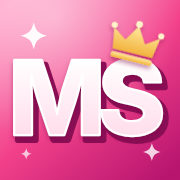
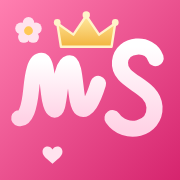
Ícone: M e S manuscritos com coroa e flor
Claude-Session: https://claude.ai/code/session_01Jf1jNJdkTk3N6YZyyR6Hu3

diff --git a/index.html b/index.html
@@ -9,7 +9,7 @@
 <link rel="icon" type="image/png" href="icon-192.png">
 <link rel="apple-touch-icon" href="apple-touch-icon.png">
 <style>:root{color-scheme:light}html,body{margin:0}body{font-family:system-ui,sans-serif}[hidden]{display:none!important}img{max-width:100%}</style>
-<script>window.MM_VER="1794254762";</script>
+<script>window.MM_VER="1794254817";</script>
 <script src="supabase.js"></script>
 <script>window.sb=supabase.createClient("https://tobdkptlewiwemafphyf.supabase.co","eyJhbGciOiJIUzI1NiIsInR5cCI6IkpXVCJ9.eyJpc3MiOiJzdXBhYmFzZSIsInJlZiI6InRvYmRrcHRsZXdpd2VtYWZwaHlmIiwicm9sZSI6ImFub24iLCJpYXQiOjE3OTQxNDc1NTYsImV4cCI6MjEwOTcyMzU1Nn0.du1wM-BLPDdWwL1jofBVwTh7lJbzHz2nEXdf1Gl1BJo",{auth:{persistSession:true,autoRefreshToken:true,detectSessionInUrl:true}});</script>
 </head><body>
@@ -452,7 +452,7 @@ nav button.fab[aria-current="page"],:root:not([data-tema=suave]) nav button.fab[
 
 <div class="app">
   <header>
-    <div class="brand"><svg class="logo" viewBox="0 0 48 48" aria-hidden="true"><defs><linearGradient id="bH" x1=".1" y1="0" x2=".9" y2="1"><stop offset="0" stop-color="#FF9CC4"/><stop offset=".5" stop-color="#F2418A"/><stop offset="1" stop-color="#B8156F"/></linearGradient><linearGradient id="wH" x1="0" y1="0" x2="0" y2="1"><stop offset="0" stop-color="#fff"/><stop offset="1" stop-color="#FFDDEB"/></linearGradient><linearGradient id="gH" x1="0" y1="0" x2="0" y2="1"><stop offset="0" stop-color="#FFE9A0"/><stop offset="1" stop-color="#F2B33D"/></linearGradient><radialGradient id="hH" cx=".3" cy=".1" r=".7"><stop offset="0" stop-color="#fff" stop-opacity=".45"/><stop offset="1" stop-color="#fff" stop-opacity="0"/></radialGradient><filter id="sH" x="-20%" y="-20%" width="140%" height="150%"><feDropShadow dx="0" dy=".9" stdDeviation=".7" flood-color="#7A0B45" flood-opacity=".45"/></filter></defs><rect width="48" height="48" rx="15" fill="url(#bH)"/><rect width="48" height="48" rx="15" fill="url(#hH)"/><g transform="translate(1 1.3)"><path fill="#8A0F55" stroke="#8A0F55" stroke-width="1.6" stroke-linejoin="round" d="M3.78 36H8.53V27.38C8.53 25.89 8.41 22.75 8.35 20.11C9.04 22.93 9.86 25.9 10.33 27.38L13.22 36H17.18L20.02 27.38C20.51 25.85 21.35 22.75 22.01 19.89C21.96 22.59 21.84 25.86 21.84 27.38V36H26.6V15.99H19.2L16.69 23.78C16.29 25.15 15.67 28.02 15.22 30.41C14.75 28.02 14.13 25.15 13.71 23.78L11.16 15.99H3.78Z"/><path fill="#8A0F55" stroke="#8A0F55" stroke-width="1.6" stroke-linejoin="round" d="M35.31 36.27C40.27 36.27 43.22 34 43.22 30.2C43.22 27 40.98 25.07 37.11 24.22L35.38 23.82C33.6 23.42 32.43 22.83 32.43 21.59C32.43 20.48 33.41 19.66 35.3 19.66C37.21 19.66 38.27 20.5 38.4 21.95H42.96C42.9 18.25 39.95 15.72 35.31 15.72C30.78 15.72 27.53 18.21 27.53 21.91C27.53 24.92 29.62 26.65 33.07 27.45L35.19 27.94C37.38 28.44 38.43 29.04 38.43 30.19C38.43 31.46 37.22 32.33 35.26 32.33C33.1 32.33 31.66 31.34 31.56 29.39H27C27.08 34.01 30.31 36.27 35.31 36.27Z"/></g><g filter="url(#sH)"><path fill="url(#wH)" stroke="#fff" stroke-width=".6" stroke-linejoin="round" d="M3.78 36H8.53V27.38C8.53 25.89 8.41 22.75 8.35 20.11C9.04 22.93 9.86 25.9 10.33 27.38L13.22 36H17.18L20.02 27.38C20.51 25.85 21.35 22.75 22.01 19.89C21.96 22.59 21.84 25.86 21.84 27.38V36H26.6V15.99H19.2L16.69 23.78C16.29 25.15 15.67 28.02 15.22 30.41C14.75 28.02 14.13 25.15 13.71 23.78L11.16 15.99H3.78Z"/><path fill="url(#wH)" stroke="#fff" stroke-width=".6" stroke-linejoin="round" d="M35.31 36.27C40.27 36.27 43.22 34 43.22 30.2C43.22 27 40.98 25.07 37.11 24.22L35.38 23.82C33.6 23.42 32.43 22.83 32.43 21.59C32.43 20.48 33.41 19.66 35.3 19.66C37.21 19.66 38.27 20.5 38.4 21.95H42.96C42.9 18.25 39.95 15.72 35.31 15.72C30.78 15.72 27.53 18.21 27.53 21.91C27.53 24.92 29.62 26.65 33.07 27.45L35.19 27.94C37.38 28.44 38.43 29.04 38.43 30.19C38.43 31.46 37.22 32.33 35.26 32.33C33.1 32.33 31.66 31.34 31.56 29.39H27C27.08 34.01 30.31 36.27 35.31 36.27Z"/></g><g transform="translate(36 11.4) rotate(14) scale(.9)" filter="url(#sH)"><path fill="url(#gH)" d="M-6 3.2 L-7 -3 L-3 -.2 L0 -5 L3 -.2 L7 -3 L6 3.2 Z"/><rect x="-6.2" y="4" width="12.4" height="1.6" rx=".6" fill="url(#gH)"/><circle cx="0" cy="-5.6" r="1" fill="#FFF3C9"/><circle cx="-7.1" cy="-3.7" r=".9" fill="#FFF3C9"/><circle cx="7.1" cy="-3.7" r=".9" fill="#FFF3C9"/></g><path transform="translate(9 9.5) scale(1.2)" fill="#fff" opacity="0.95" d="M0 -3 C.5 -1 1 -.5 3 0 C1 .5 .5 1 0 3 C-.5 1 -1 .5 -3 0 C-1 -.5 -.5 -1 0 -3Z"/><path transform="translate(40.5 40.5) scale(0.8)" fill="#fff" opacity="0.8" d="M0 -3 C.5 -1 1 -.5 3 0 C1 .5 .5 1 0 3 C-.5 1 -1 .5 -3 0 C-1 -.5 -.5 -1 0 -3Z"/><path transform="translate(7 41) scale(0.5)" fill="#fff" opacity="0.7" d="M0 -3 C.5 -1 1 -.5 3 0 C1 .5 .5 1 0 3 C-.5 1 -1 .5 -3 0 C-1 -.5 -.5 -1 0 -3Z"/></svg><span class="wm">Mavie Skin</span></div>
+    <div class="brand"><svg class="logo" viewBox="0 0 48 48" aria-hidden="true"><defs><linearGradient id="lgmH" x1="0" y1="0" x2="1" y2="1"><stop offset="0" stop-color="#FF7FB0"/><stop offset="1" stop-color="#D6246E"/></linearGradient><linearGradient id="lgwH" x1="0" y1="0" x2="0" y2="1"><stop offset="0" stop-color="#fff"/><stop offset="1" stop-color="#FFD3E6"/></linearGradient><linearGradient id="cgH" x1="0" y1="0" x2="0" y2="1"><stop offset="0" stop-color="#FFE9A0"/><stop offset="1" stop-color="#F2B33D"/></linearGradient></defs><rect width="48" height="48" rx="15" fill="url(#lgmH)"/><g fill="none" stroke="url(#lgwH)" stroke-linecap="round" stroke-linejoin="round"><path transform="translate(0 7.7) scale(.68)" stroke-width="6.2" d="M7.5 35 C10 35.5 11.5 31 12.2 24 C12.8 17.5 13.8 12.5 16.2 12.5 C19.2 12.5 18.2 29 21 31.5 C23.8 34 22.8 14.5 27 13.5 C30 12.8 29.2 29.5 31.8 31.2 C34 32.6 36.5 28 38.5 21.5"/><path stroke-width="4.3" d="M41.5 15.5 C40 11 32.5 11.5 32 16.5 C31.5 22 40.8 22.5 41.2 28.5 C41.5 34.5 33.5 36.5 30 31.5"/></g><g transform="translate(23 9.6) scale(.9)"><path d="M-7.5 3.2 L-8.6 -3.8 L-3.8 -0.4 L0 -6 L3.8 -0.4 L8.6 -3.8 L7.5 3.2 Z" fill="url(#cgH)" stroke="#FFF3C9" stroke-width=".7" stroke-linejoin="round"/><circle cx="0" cy="-6.2" r="1.1" fill="#FFF3C9"/><circle cx="-8.6" cy="-4" r="1" fill="#FFF3C9"/><circle cx="8.6" cy="-4" r="1" fill="#FFF3C9"/></g><g transform="translate(7.6 8.2) scale(.62)"><g fill="#FFE3EE"><circle cx="0" cy="-3.4" r="2.5"/><circle cx="3.2" cy="-1" r="2.5"/><circle cx="2" cy="2.7" r="2.5"/><circle cx="-2" cy="2.7" r="2.5"/><circle cx="-3.2" cy="-1" r="2.5"/></g><circle r="1.9" fill="#FFC857"/></g><path transform="translate(14 41) scale(.7)" fill="#FFE3EE" d="M0 -1.6c-.9-1.9-3.8-1.4-3.8.8 0 1.7 2.1 3 3.8 4.6 1.7-1.6 3.8-2.9 3.8-4.6 0-2.2-2.9-2.7-3.8-.8z"/></svg><span class="wm">Mavie Skin</span></div>
     <div class="tag" id="tag"></div>
   </header>
   <div id="ages" hidden></div>
@@ -515,7 +515,7 @@ const IC={
 };
 const ic=(n,s=20)=>`<svg class="ic" width="${s}" height="${s}" viewBox="0 0 24 24" aria-hidden="true">${IC[n]}</svg>`;
 const ICONS={hoje:ic('home',22),pele:ic('face',22),rotina:ic('routine',22),produtos:ic('bottle',22),escanear:ic('scan',22),mais:ic('more',22)};
-const LOGO=`<svg class="logo" viewBox="0 0 48 48" aria-hidden="true"><defs><linearGradient id="bL" x1=".1" y1="0" x2=".9" y2="1"><stop offset="0" stop-color="#FF9CC4"/><stop offset=".5" stop-color="#F2418A"/><stop offset="1" stop-color="#B8156F"/></linearGradient><linearGradient id="wL" x1="0" y1="0" x2="0" y2="1"><stop offset="0" stop-color="#fff"/><stop offset="1" stop-color="#FFDDEB"/></linearGradient><linearGradient id="gL" x1="0" y1="0" x2="0" y2="1"><stop offset="0" stop-color="#FFE9A0"/><stop offset="1" stop-color="#F2B33D"/></linearGradient><radialGradient id="hL" cx=".3" cy=".1" r=".7"><stop offset="0" stop-color="#fff" stop-opacity=".45"/><stop offset="1" stop-color="#fff" stop-opacity="0"/></radialGradient><filter id="sL" x="-20%" y="-20%" width="140%" height="150%"><feDropShadow dx="0" dy=".9" stdDeviation=".7" flood-color="#7A0B45" flood-opacity=".45"/></filter></defs><rect width="48" height="48" rx="15" fill="url(#bL)"/><rect width="48" height="48" rx="15" fill="url(#hL)"/><g transform="translate(1 1.3)"><path fill="#8A0F55" stroke="#8A0F55" stroke-width="1.6" stroke-linejoin="round" d="M3.78 36H8.53V27.38C8.53 25.89 8.41 22.75 8.35 20.11C9.04 22.93 9.86 25.9 10.33 27.38L13.22 36H17.18L20.02 27.38C20.51 25.85 21.35 22.75 22.01 19.89C21.96 22.59 21.84 25.86 21.84 27.38V36H26.6V15.99H19.2L16.69 23.78C16.29 25.15 15.67 28.02 15.22 30.41C14.75 28.02 14.13 25.15 13.71 23.78L11.16 15.99H3.78Z"/><path fill="#8A0F55" stroke="#8A0F55" stroke-width="1.6" stroke-linejoin="round" d="M35.31 36.27C40.27 36.27 43.22 34 43.22 30.2C43.22 27 40.98 25.07 37.11 24.22L35.38 23.82C33.6 23.42 32.43 22.83 32.43 21.59C32.43 20.48 33.41 19.66 35.3 19.66C37.21 19.66 38.27 20.5 38.4 21.95H42.96C42.9 18.25 39.95 15.72 35.31 15.72C30.78 15.72 27.53 18.21 27.53 21.91C27.53 24.92 29.62 26.65 33.07 27.45L35.19 27.94C37.38 28.44 38.43 29.04 38.43 30.19C38.43 31.46 37.22 32.33 35.26 32.33C33.1 32.33 31.66 31.34 31.56 29.39H27C27.08 34.01 30.31 36.27 35.31 36.27Z"/></g><g filter="url(#sL)"><path fill="url(#wL)" stroke="#fff" stroke-width=".6" stroke-linejoin="round" d="M3.78 36H8.53V27.38C8.53 25.89 8.41 22.75 8.35 20.11C9.04 22.93 9.86 25.9 10.33 27.38L13.22 36H17.18L20.02 27.38C20.51 25.85 21.35 22.75 22.01 19.89C21.96 22.59 21.84 25.86 21.84 27.38V36H26.6V15.99H19.2L16.69 23.78C16.29 25.15 15.67 28.02 15.22 30.41C14.75 28.02 14.13 25.15 13.71 23.78L11.16 15.99H3.78Z"/><path fill="url(#wL)" stroke="#fff" stroke-width=".6" stroke-linejoin="round" d="M35.31 36.27C40.27 36.27 43.22 34 43.22 30.2C43.22 27 40.98 25.07 37.11 24.22L35.38 23.82C33.6 23.42 32.43 22.83 32.43 21.59C32.43 20.48 33.41 19.66 35.3 19.66C37.21 19.66 38.27 20.5 38.4 21.95H42.96C42.9 18.25 39.95 15.72 35.31 15.72C30.78 15.72 27.53 18.21 27.53 21.91C27.53 24.92 29.62 26.65 33.07 27.45L35.19 27.94C37.38 28.44 38.43 29.04 38.43 30.19C38.43 31.46 37.22 32.33 35.26 32.33C33.1 32.33 31.66 31.34 31.56 29.39H27C27.08 34.01 30.31 36.27 35.31 36.27Z"/></g><g transform="translate(36 11.4) rotate(14) scale(.9)" filter="url(#sL)"><path fill="url(#gL)" d="M-6 3.2 L-7 -3 L-3 -.2 L0 -5 L3 -.2 L7 -3 L6 3.2 Z"/><rect x="-6.2" y="4" width="12.4" height="1.6" rx=".6" fill="url(#gL)"/><circle cx="0" cy="-5.6" r="1" fill="#FFF3C9"/><circle cx="-7.1" cy="-3.7" r=".9" fill="#FFF3C9"/><circle cx="7.1" cy="-3.7" r=".9" fill="#FFF3C9"/></g><path transform="translate(9 9.5) scale(1.2)" fill="#fff" opacity="0.95" d="M0 -3 C.5 -1 1 -.5 3 0 C1 .5 .5 1 0 3 C-.5 1 -1 .5 -3 0 C-1 -.5 -.5 -1 0 -3Z"/><path transform="translate(40.5 40.5) scale(0.8)" fill="#fff" opacity="0.8" d="M0 -3 C.5 -1 1 -.5 3 0 C1 .5 .5 1 0 3 C-.5 1 -1 .5 -3 0 C-1 -.5 -.5 -1 0 -3Z"/><path transform="translate(7 41) scale(0.5)" fill="#fff" opacity="0.7" d="M0 -3 C.5 -1 1 -.5 3 0 C1 .5 .5 1 0 3 C-.5 1 -1 .5 -3 0 C-1 -.5 -.5 -1 0 -3Z"/></svg>`;
+const LOGO=`<svg class="logo" viewBox="0 0 48 48" aria-hidden="true"><defs><linearGradient id="lgmL" x1="0" y1="0" x2="1" y2="1"><stop offset="0" stop-color="#FF7FB0"/><stop offset="1" stop-color="#D6246E"/></linearGradient><linearGradient id="lgwL" x1="0" y1="0" x2="0" y2="1"><stop offset="0" stop-color="#fff"/><stop offset="1" stop-color="#FFD3E6"/></linearGradient><linearGradient id="cgL" x1="0" y1="0" x2="0" y2="1"><stop offset="0" stop-color="#FFE9A0"/><stop offset="1" stop-color="#F2B33D"/></linearGradient></defs><rect width="48" height="48" rx="15" fill="url(#lgmL)"/><g fill="none" stroke="url(#lgwL)" stroke-linecap="round" stroke-linejoin="round"><path transform="translate(0 7.7) scale(.68)" stroke-width="6.2" d="M7.5 35 C10 35.5 11.5 31 12.2 24 C12.8 17.5 13.8 12.5 16.2 12.5 C19.2 12.5 18.2 29 21 31.5 C23.8 34 22.8 14.5 27 13.5 C30 12.8 29.2 29.5 31.8 31.2 C34 32.6 36.5 28 38.5 21.5"/><path stroke-width="4.3" d="M41.5 15.5 C40 11 32.5 11.5 32 16.5 C31.5 22 40.8 22.5 41.2 28.5 C41.5 34.5 33.5 36.5 30 31.5"/></g><g transform="translate(23 9.6) scale(.9)"><path d="M-7.5 3.2 L-8.6 -3.8 L-3.8 -0.4 L0 -6 L3.8 -0.4 L8.6 -3.8 L7.5 3.2 Z" fill="url(#cgL)" stroke="#FFF3C9" stroke-width=".7" stroke-linejoin="round"/><circle cx="0" cy="-6.2" r="1.1" fill="#FFF3C9"/><circle cx="-8.6" cy="-4" r="1" fill="#FFF3C9"/><circle cx="8.6" cy="-4" r="1" fill="#FFF3C9"/></g><g transform="translate(7.6 8.2) scale(.62)"><g fill="#FFE3EE"><circle cx="0" cy="-3.4" r="2.5"/><circle cx="3.2" cy="-1" r="2.5"/><circle cx="2" cy="2.7" r="2.5"/><circle cx="-2" cy="2.7" r="2.5"/><circle cx="-3.2" cy="-1" r="2.5"/></g><circle r="1.9" fill="#FFC857"/></g><path transform="translate(14 41) scale(.7)" fill="#FFE3EE" d="M0 -1.6c-.9-1.9-3.8-1.4-3.8.8 0 1.7 2.1 3 3.8 4.6 1.7-1.6 3.8-2.9 3.8-4.6 0-2.2-2.9-2.7-3.8-.8z"/></svg>`;
 const TABS=[['hoje','Hoje'],['pele','Pele'],['escanear','Escanear'],['rotina','Rotina'],['produtos','Produtos'],['mais','Mais']];
 const AGES=[['20','Até 29 anos'],['30','30 a 39 anos'],['40','40 a 49 anos'],['50','50 anos ou mais']];
 const TIERS=[['econ','Econômico'],['mid','Intermediário'],['prem','Premium']];
